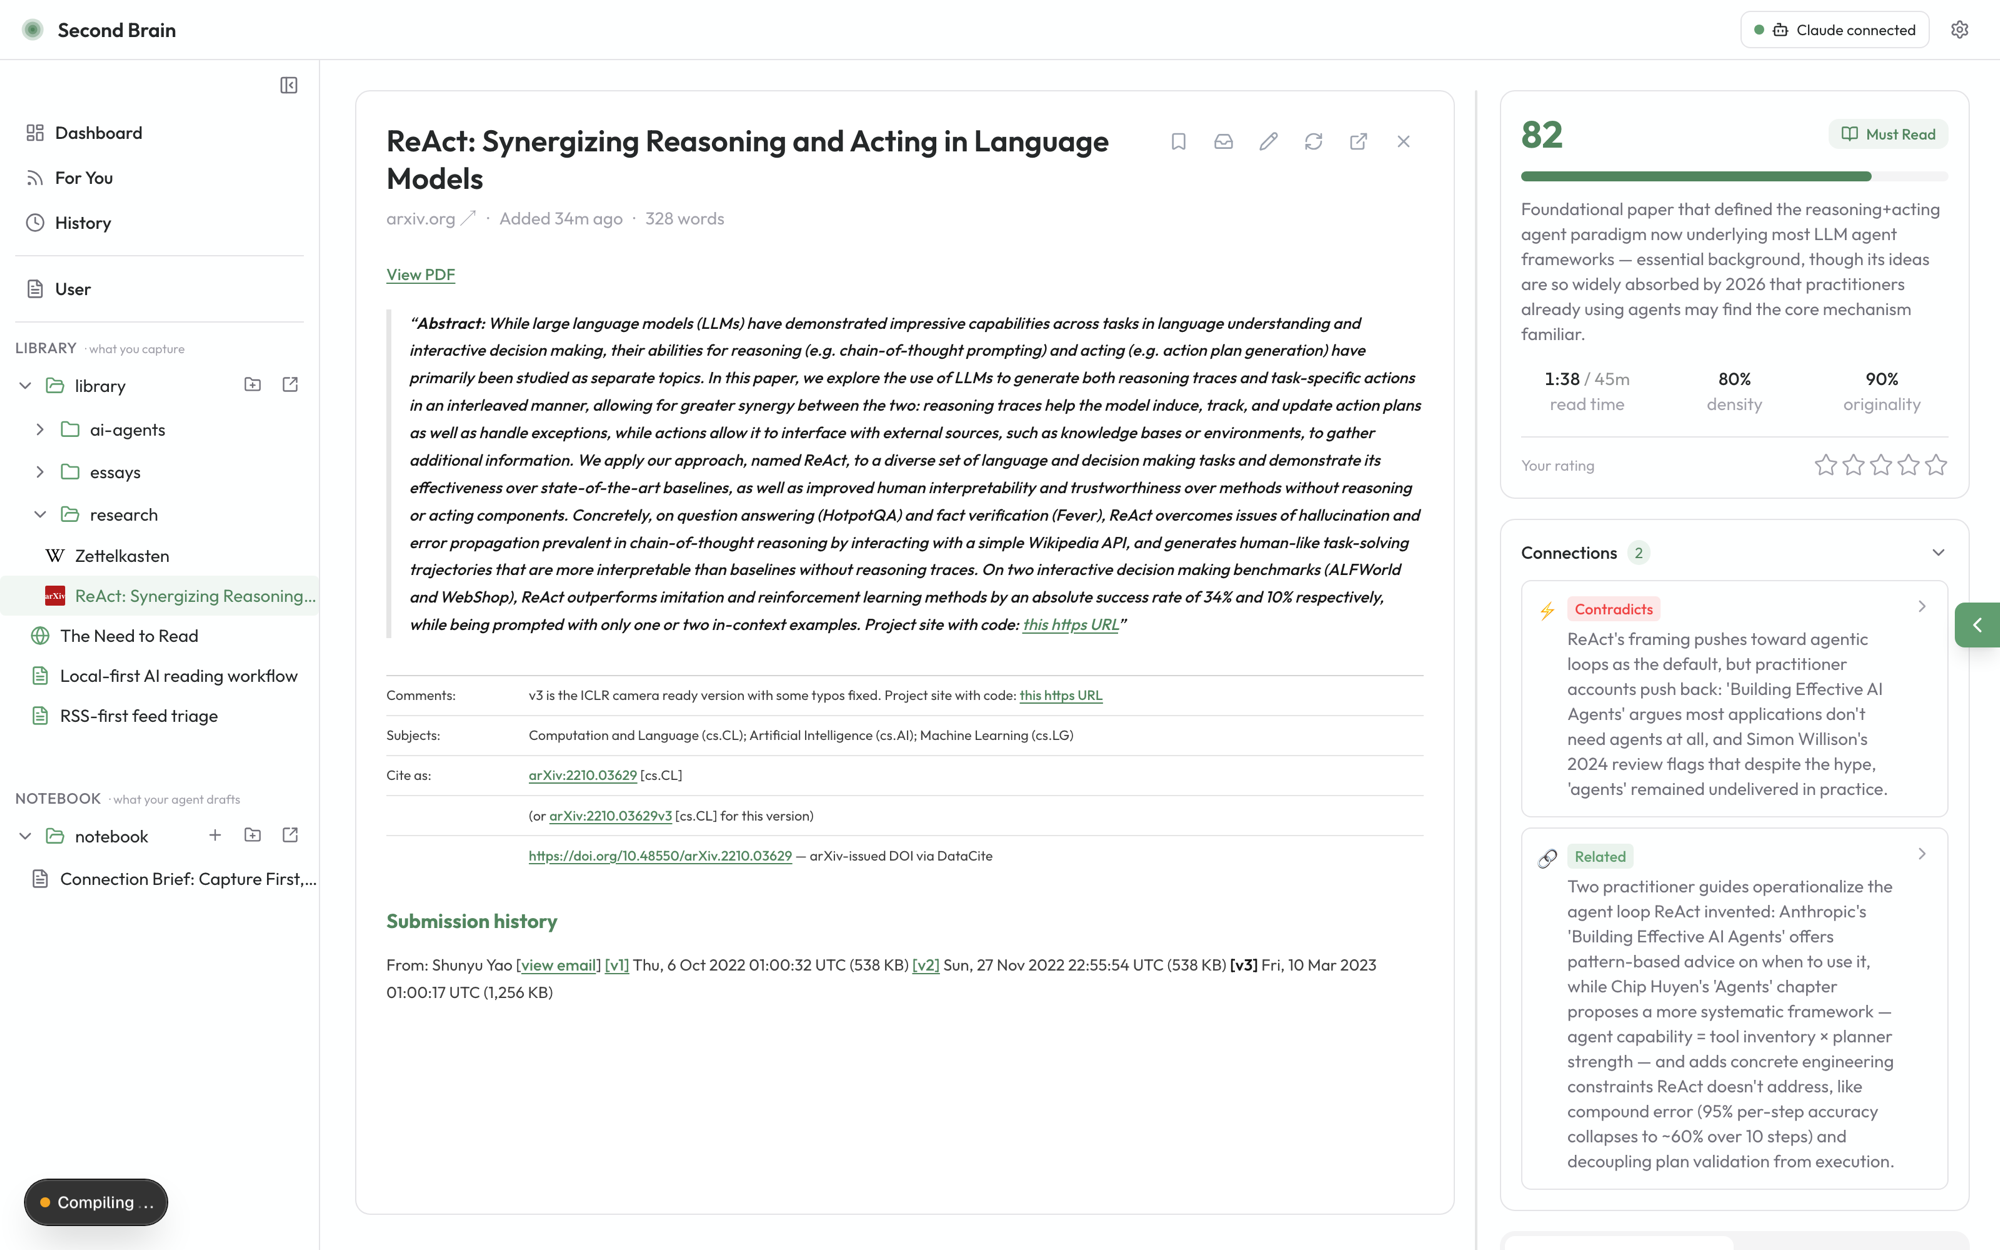
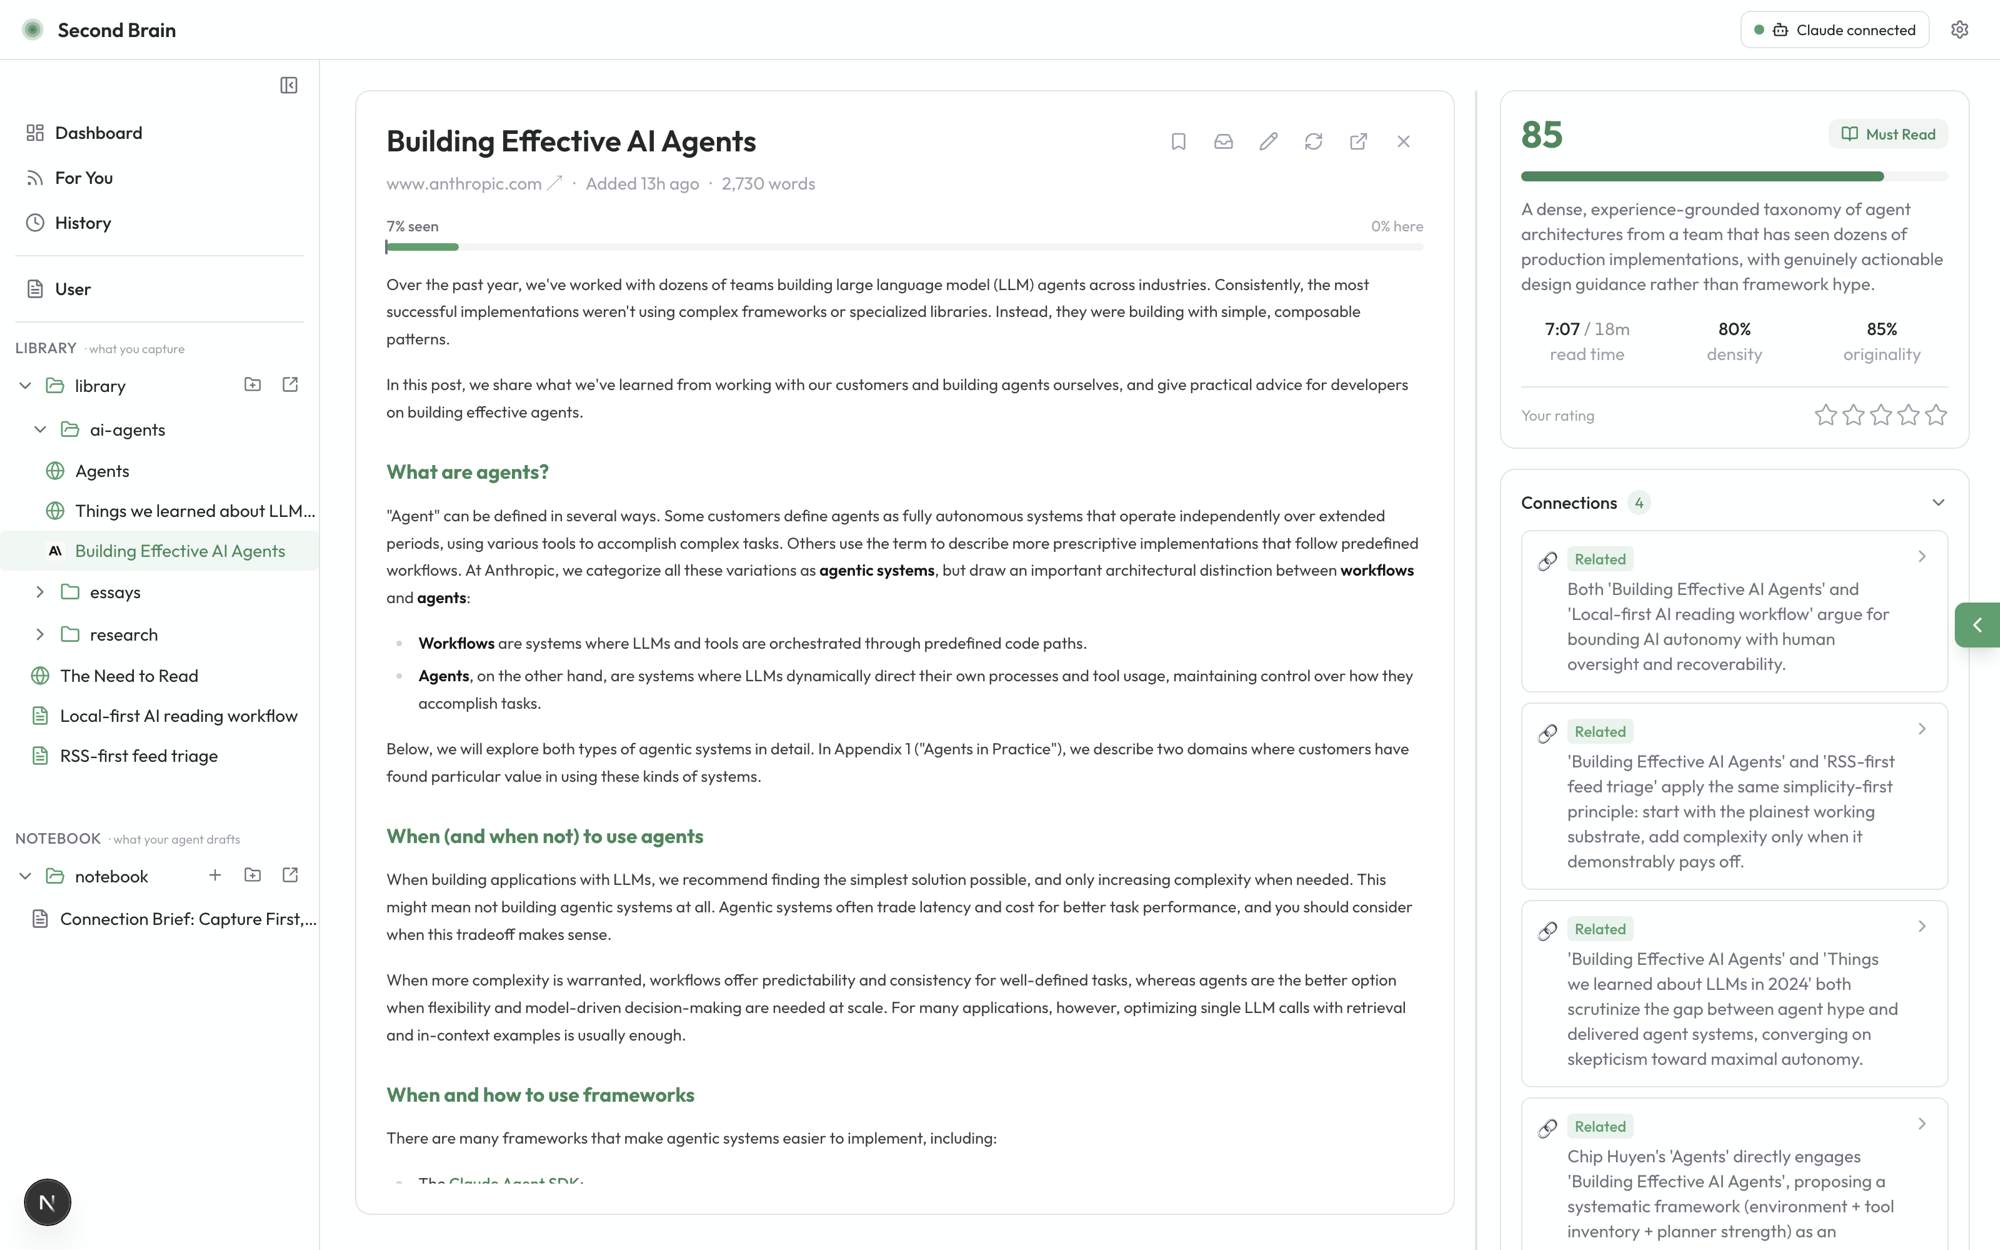
README: refresh source-view screenshot and copy

diff --git a/README.md b/README.md
@@ -36,9 +36,9 @@ Bookmark managers work the wrong end of it. Saving is easy; **deciding is the ha
 
 Second Brain flips the loop: **triage before you read.** Every capture gets flagged at the door — so the twenty-minute mistakes get easier to decline, and the piece that matters gets your full attention: actually read, not skimmed with guilt.
 
-## Not another AI-summary app
+## Don't outsource your understanding — or your judgment
 
-Let's address it head-on: nobody needs one more tool that turns essays into three bullets so you can pretend you read them. **Understanding doesn't outsource. Neither does judgment.**
+Nobody needs one more tool that turns essays into three bullets so you can pretend you read them. **That is not what this is.**
 
 Second Brain's AI does exactly two jobs — and reading for you isn't one of them:
 
@@ -78,6 +78,29 @@ Every verdict is advisory. Every analysis is an editable file on your disk. The 
 - **Your library is the agent's workspace** — plain local files mean the agent reads and organizes the exact same files you see. Hand it content anytime: reorganize the library, or draft a post from what you've been reading lately, straight into your Notebook.
 - **Information comes to you** — the "For You" feed ranks RSS (and optional search) against your interests and reading history. It breaks the bottleneck of only knowing what you went looking for. Works out of the box, no API key.
 - **You control what it knows** — `USER.md` holds your explicit preferences; `MEMORY.md` is the agent's own evolving notes about you, visible and editable right in the app. Modern agent memory, without the black box.
+
+<table>
+  <tr>
+    <td width="50%" align="center">
+      <img src="docs/assets/foryou.png" alt="For You — a personalized briefing that cross-references your own library" />
+      <br/><sub><b>For You</b> — a briefing that knows your library: "compare this against <i>your</i> augmented-LLM notes."</sub>
+    </td>
+    <td width="50%" align="center">
+      <img src="docs/assets/agent.png" alt="Agent panel beside the reading view, with the current source as context" />
+      <br/><sub><b>Agent at your side</b> — the current source becomes context; ask, verify, reorganize, draft.</sub>
+    </td>
+  </tr>
+  <tr>
+    <td width="50%" align="center">
+      <img src="docs/assets/memory.png" alt="Memory page — the agent's evolving notes about you, editable in the app" />
+      <br/><sub><b>Memory, in the open</b> — what the agent has learned about you is a file you can read and edit.</sub>
+    </td>
+    <td width="50%" align="center">
+      <img src="docs/assets/notebook.png" alt="Notebook — an agent-drafted brief that cites the sources it connected" />
+      <br/><sub><b>Notebook</b> — agent-drafted syntheses that cite your sources, yours to rewrite.</sub>
+    </td>
+  </tr>
+</table>
 
 ## How it works
 
